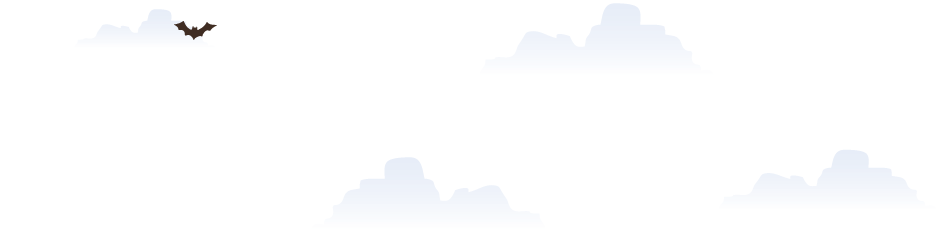
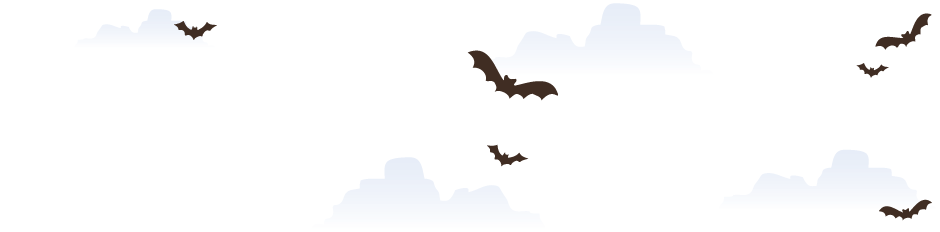
new header graphics and omission of unwanted messaging items

diff --git a/sites/all/themes/drupalcampaustin/styles/style.css b/sites/all/themes/drupalcampaustin/styles/style.css
@@ -244,7 +244,7 @@ body {
     #header-wrapper {}
       #header-container {
         background: url(../images/bg-header.png) top center no-repeat;
-        height: 330px;
+        height: 260px;
         position: relative;
         }
 
@@ -315,28 +315,6 @@ body {
               margin-bottom: 20px;
               }
               
-    .ddbc, 
-    .time-cost {
-      display: block;
-      overflow: hidden;
-      position: absolute;
-      text-indent: -9999em;
-      }
-      .ddbc {
-        background: url(../images/ddbc.png) top center no-repeat;
-        width: 630px;
-        height: 35px;
-        bottom: 35px;
-      }
-      
-      .time-cost {
-        width: 260px;
-        height: 98px;
-        bottom: 15px;
-        right: 30px;
-        background: url(../images/sprite.png) 0px -600px no-repeat;
-      }
-
     #main-wrapper {
       min-height: 600px;
       }
@@ -1547,12 +1525,3 @@ table.uc-order-history th, table.uc-order-history td {
 /* -------------------------------------
  * End Ubercart style
  * ===================================== */
- 
- 
-/* BATZ! */
-canvas {
-  position: fixed;
-  top: 0;
-  left: 0;
-}
-

diff --git a/sites/all/themes/drupalcampaustin/templates/page-front.tpl.php b/sites/all/themes/drupalcampaustin/templates/page-front.tpl.php
@@ -39,8 +39,7 @@
         <div id="header" class="prefix-8 grid-8 clearfix">
           <?php print $header; ?>
         </div> <!-- /#header -->
-       <div class="ddbc">Design Development Business Community</div>
-       <div class="time-cost"></div>
+        
         </div>
       </div> <!-- /#header-container -->
     </div> <!-- /#header-wrapper -->

diff --git a/sites/all/themes/drupalcampaustin/templates/page.tpl.php b/sites/all/themes/drupalcampaustin/templates/page.tpl.php
@@ -39,9 +39,6 @@
           <?php print $header; ?>
         </div> <!-- /#header -->
         
-      <div class="ddbc">Design Development Business Community</div>
-      <div class="time-cost"></div>
-        
       </div> <!-- /#header-container -->
     </div> <!-- /#header-wrapper -->
 
